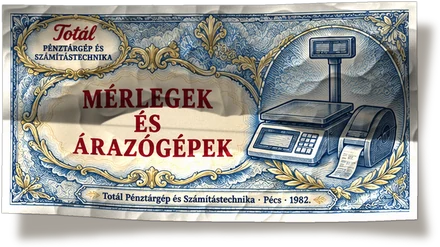
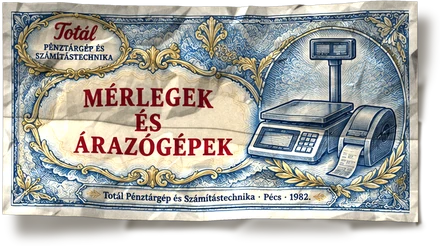
Bankjegyek 2. kör: fizikai alapú gyűrés – összefüggő, élekben megtörő gyűrődés három léptékben, hullámzó éles hajtásvonalak csúcsfénnyel, önárnyék a felemelkedő részekről, üregárnyék, kikopott festék a hajtásokon, kosz és sárgult papírszél, magasság szerint puhuló vetett árnyék; háromszoros belső fe
Claude-Session: https://claude.ai/code/session_019XGnSoGg3wGrQBhaaRxqBs

diff --git a/index.html b/index.html
@@ -1073,7 +1073,7 @@ html[dir=rtl] .top .hnyelv{display:none}
 <section class="sec vizjel-reg jobb" id="szolgaltatasok">
   <div class="wrap">
     <div class="shead rv"><div><span class="eye">Amivel foglalkozunk</span><h2 class="sh2">Minden egy helyen, <em>Pécsen</em></h2><p class="slead">A pénztárgéptől a számítógépig segítünk a megfelelő eszköz kiválasztásában, beállításában és használatának elsajátításában. Később is számíthat ránk a javításban – üzlete technikai hátterét egy helyen intézheti.</p></div><a class="hb navy" href="webaruhaz/#termekek"><svg class="ic" viewBox="0 0 24 24"><circle cx="9" cy="20" r="1.4"/><circle cx="18" cy="20" r="1.4"/><path d="M2.5 3.5h3l2.6 11.2a1.5 1.5 0 0 0 1.5 1.2h8.3a1.5 1.5 0 0 0 1.4-1.1l1.7-7.3H6.3"/></svg>Webáruház</a><img class="szdisz" src="assets/illusztraciok/web/szekesegyhaz-szepia.svg?v=1101" alt="" aria-hidden="true" width="1139" height="995" loading="lazy" decoding="async"></div>
-    <div class="areas bjr"><a class="area bjk rv" href="webaruhaz/#kat-penztargep"><span class="bj-mezo"><img class="bjg" style="--w:93%;--rot:-2.1deg" src="assets/bankjegyek/gyurt/penztargep-440.webp" srcset="assets/bankjegyek/gyurt/penztargep-440.webp 440w, assets/bankjegyek/gyurt/penztargep-820.webp 767w" sizes="(max-width:700px) 90vw, 380px" alt="" width="767" height="445" loading="lazy" decoding="async"></span><div class="bj-tart"><h3>Pénztárgépek és POS-rendszerek</h3><p>Online pénztárgépek és érintőképernyős kasszarendszerek különféle üzleti feladatokra. Segítünk a megfelelő készülék kiválasztásában, üzembe helyezésében és használatának elsajátításában.</p><ul><li><svg class="ic" viewBox="0 0 24 24"><path d="M4 12.5l5 5L20 6.5"/></svg><span>Sam4s, Micra és Montel készülékek</span></li><li><svg class="ic" viewBox="0 0 24 24"><path d="M4 12.5l5 5L20 6.5"/></svg><span>Üzembe helyezés és NAV-bejelentés</span></li><li><svg class="ic" viewBox="0 0 24 24"><path d="M4 12.5l5 5L20 6.5"/></svg><span>Kasszafiók, vonalkódolvasó, blokknyomtató</span></li></ul><span class="more">Pénztárgépek <svg class="ic" viewBox="0 0 24 24"><path d="m9 5 7 7-7 7"/></svg></span></div></a><a class="area bjk rv" href="webaruhaz/#kat-irodatechnika"><span class="bj-mezo"><img class="bjg" style="--w:86%;--rot:1.5deg" src="assets/bankjegyek/gyurt/szamitastechnika-440.webp" srcset="assets/bankjegyek/gyurt/szamitastechnika-440.webp 440w, assets/bankjegyek/gyurt/szamitastechnika-820.webp 772w" sizes="(max-width:700px) 90vw, 380px" alt="" width="772" height="432" loading="lazy" decoding="async"></span><div class="bj-tart"><h3>Számítástechnika és irodatechnika</h3><p>Számítógépek, laptopok, nyomtatók és hálózati megoldások üzleti és otthoni használatra. Igény szerint segítünk a beszerzésben, az összeállításban, a telepítésben és a javításban.</p><ul><li><svg class="ic" viewBox="0 0 24 24"><path d="M4 12.5l5 5L20 6.5"/></svg><span>Gépek összeállítása és telepítése</span></li><li><svg class="ic" viewBox="0 0 24 24"><path d="M4 12.5l5 5L20 6.5"/></svg><span>Számítógép- és laptopjavítás</span></li><li><svg class="ic" viewBox="0 0 24 24"><path d="M4 12.5l5 5L20 6.5"/></svg><span>Hálózat és internet kiépítése</span></li></ul><span class="more">Irodatechnika <svg class="ic" viewBox="0 0 24 24"><path d="m9 5 7 7-7 7"/></svg></span></div></a><a class="area bjk rv" href="webaruhaz/#kat-merleg"><span class="bj-mezo"><img class="bjg" style="--w:96%;--rot:-.7deg" src="assets/bankjegyek/gyurt/merleg-arazo-440.webp" srcset="assets/bankjegyek/gyurt/merleg-arazo-440.webp 440w, assets/bankjegyek/gyurt/merleg-arazo-820.webp 757w" sizes="(max-width:700px) 90vw, 380px" alt="" width="757" height="425" loading="lazy" decoding="async"></span><div class="bj-tart"><h3>Mérlegek és árazógépek</h3><p>Bolti mérlegek, árazógépek és a hozzájuk tartozó kellékek. A felhasználási cél és a szükséges kapacitás alapján segítünk kiválasztani az Ön munkájához megfelelő megoldást.</p><ul><li><svg class="ic" viewBox="0 0 24 24"><path d="M4 12.5l5 5L20 6.5"/></svg><span>Hitelesített bolti mérlegek</span></li><li><svg class="ic" viewBox="0 0 24 24"><path d="M4 12.5l5 5L20 6.5"/></svg><span>Árazógépek, címkék, festékhengerek</span></li><li><svg class="ic" viewBox="0 0 24 24"><path d="M4 12.5l5 5L20 6.5"/></svg><span>Tanácsadás a választáshoz</span></li></ul><span class="more">Mérlegek <svg class="ic" viewBox="0 0 24 24"><path d="m9 5 7 7-7 7"/></svg></span></div></a><a class="area bjk rv" href="webaruhaz/#kat-kellek"><span class="bj-mezo"><img class="bjg" style="--w:88%;--rot:2.3deg" src="assets/bankjegyek/gyurt/kellekanyagok-440.webp" srcset="assets/bankjegyek/gyurt/kellekanyagok-440.webp 440w, assets/bankjegyek/gyurt/kellekanyagok-820.webp 747w" sizes="(max-width:700px) 90vw, 380px" alt="" width="747" height="411" loading="lazy" decoding="async"></span><div class="bj-tart"><h3>Kellékanyagok</h3><p>Hőpapírtekercsek, árazócímkék, festékhengerek és belövőszálak. A megfelelő méret kiválasztásához hozza magával készüléke pontos típusát, vagy hívjon minket.</p><ul><li><svg class="ic" viewBox="0 0 24 24"><path d="M4 12.5l5 5L20 6.5"/></svg><span>Hőpapírtekercsek minden géphez</span></li><li><svg class="ic" viewBox="0 0 24 24"><path d="M4 12.5l5 5L20 6.5"/></svg><span>Árazócímkék, festékhengerek</span></li><li><svg class="ic" viewBox="0 0 24 24"><path d="M4 12.5l5 5L20 6.5"/></svg><span>Gyors beszerzés, átvétel üzletünkben</span></li></ul><span class="more">Kellékanyagok <svg class="ic" viewBox="0 0 24 24"><path d="m9 5 7 7-7 7"/></svg></span></div></a><a class="area bjk rv" href="webaruhaz/#szerviz"><span class="bj-mezo"><img class="bjg" style="--w:91%;--rot:-1.4deg" src="assets/bankjegyek/gyurt/szerviz-440.webp" srcset="assets/bankjegyek/gyurt/szerviz-440.webp 440w, assets/bankjegyek/gyurt/szerviz-820.webp 758w" sizes="(max-width:700px) 90vw, 380px" alt="" width="758" height="429" loading="lazy" decoding="async"></span><div class="bj-tart"><h3>Szerviz és karbantartás</h3><p>Pénztárgépek javítását, felülvizsgálatát és adómemória-kiolvasását, valamint számítógépek és hálózatok javítását is vállaljuk. Pénztárgép esetén kérjük, adja meg a készülék AP-számát is.</p><ul><li><svg class="ic" viewBox="0 0 24 24"><path d="M4 12.5l5 5L20 6.5"/></svg><span>Javítás és éves felülvizsgálat</span></li><li><svg class="ic" viewBox="0 0 24 24"><path d="M4 12.5l5 5L20 6.5"/></svg><span>Adómemória- és AEE-kiolvasás</span></li><li><svg class="ic" viewBox="0 0 24 24"><path d="M4 12.5l5 5L20 6.5"/></svg><span>Gyors hibaelhárítás Pécsen</span></li></ul><span class="more">Szervizbejelentés <svg class="ic" viewBox="0 0 24 24"><path d="m9 5 7 7-7 7"/></svg></span></div></a><a class="area bjk rv" href="webaruhaz/#e-penztargep"><span class="bj-mezo"><img class="bjg" style="--w:95%;--rot:1deg" src="assets/bankjegyek/gyurt/e-penztargep-440.webp" srcset="assets/bankjegyek/gyurt/e-penztargep-440.webp 440w, assets/bankjegyek/gyurt/e-penztargep-820.webp 756w" sizes="(max-width:700px) 90vw, 380px" alt="" width="756" height="418" loading="lazy" decoding="async"></span><div class="bj-tart"><h3>E-pénztárgépes tájékoztatás</h3><p>Segítünk áttekinteni az e-pénztárgépekkel kapcsolatos lehetőségeket, és felmérni, melyik megoldás illeszkedhet leginkább vállalkozása működéséhez.</p><ul><li><svg class="ic" viewBox="0 0 24 24"><path d="M4 12.5l5 5L20 6.5"/></svg><span>Segítünk felmérni, melyik megoldásra van szüksége</span></li><li><svg class="ic" viewBox="0 0 24 24"><path d="M4 12.5l5 5L20 6.5"/></svg><span>Hardveralapú e-pénztárgép</span></li><li><svg class="ic" viewBox="0 0 24 24"><path d="M4 12.5l5 5L20 6.5"/></svg><span>Teljes körű ügyintézés a NAV felé</span></li></ul><span class="more">Tanácsadás az átálláshoz <svg class="ic" viewBox="0 0 24 24"><path d="m9 5 7 7-7 7"/></svg></span></div></a></div>
+    <div class="areas bjr"><a class="area bjk rv" href="webaruhaz/#kat-penztargep"><span class="bj-mezo"><img class="bjg" style="--w:93%;--rot:-2.1deg" src="assets/bankjegyek/gyurt/penztargep-440.webp?v=2" srcset="assets/bankjegyek/gyurt/penztargep-440.webp?v=2 440w, assets/bankjegyek/gyurt/penztargep-820.webp?v=2 820w" sizes="(max-width:700px) 90vw, 380px" alt="" width="820" height="468" loading="lazy" decoding="async"></span><div class="bj-tart"><h3>Pénztárgépek és POS-rendszerek</h3><p>Online pénztárgépek és érintőképernyős kasszarendszerek különféle üzleti feladatokra. Segítünk a megfelelő készülék kiválasztásában, üzembe helyezésében és használatának elsajátításában.</p><ul><li><svg class="ic" viewBox="0 0 24 24"><path d="M4 12.5l5 5L20 6.5"/></svg><span>Sam4s, Micra és Montel készülékek</span></li><li><svg class="ic" viewBox="0 0 24 24"><path d="M4 12.5l5 5L20 6.5"/></svg><span>Üzembe helyezés és NAV-bejelentés</span></li><li><svg class="ic" viewBox="0 0 24 24"><path d="M4 12.5l5 5L20 6.5"/></svg><span>Kasszafiók, vonalkódolvasó, blokknyomtató</span></li></ul><span class="more">Pénztárgépek <svg class="ic" viewBox="0 0 24 24"><path d="m9 5 7 7-7 7"/></svg></span></div></a><a class="area bjk rv" href="webaruhaz/#kat-irodatechnika"><span class="bj-mezo"><img class="bjg" style="--w:86%;--rot:1.5deg" src="assets/bankjegyek/gyurt/szamitastechnika-440.webp?v=2" srcset="assets/bankjegyek/gyurt/szamitastechnika-440.webp?v=2 440w, assets/bankjegyek/gyurt/szamitastechnika-820.webp?v=2 820w" sizes="(max-width:700px) 90vw, 380px" alt="" width="820" height="456" loading="lazy" decoding="async"></span><div class="bj-tart"><h3>Számítástechnika és irodatechnika</h3><p>Számítógépek, laptopok, nyomtatók és hálózati megoldások üzleti és otthoni használatra. Igény szerint segítünk a beszerzésben, az összeállításban, a telepítésben és a javításban.</p><ul><li><svg class="ic" viewBox="0 0 24 24"><path d="M4 12.5l5 5L20 6.5"/></svg><span>Gépek összeállítása és telepítése</span></li><li><svg class="ic" viewBox="0 0 24 24"><path d="M4 12.5l5 5L20 6.5"/></svg><span>Számítógép- és laptopjavítás</span></li><li><svg class="ic" viewBox="0 0 24 24"><path d="M4 12.5l5 5L20 6.5"/></svg><span>Hálózat és internet kiépítése</span></li></ul><span class="more">Irodatechnika <svg class="ic" viewBox="0 0 24 24"><path d="m9 5 7 7-7 7"/></svg></span></div></a><a class="area bjk rv" href="webaruhaz/#kat-merleg"><span class="bj-mezo"><img class="bjg" style="--w:96%;--rot:-.7deg" src="assets/bankjegyek/gyurt/merleg-arazo-440.webp?v=2" srcset="assets/bankjegyek/gyurt/merleg-arazo-440.webp?v=2 440w, assets/bankjegyek/gyurt/merleg-arazo-820.webp?v=2 820w" sizes="(max-width:700px) 90vw, 380px" alt="" width="820" height="459" loading="lazy" decoding="async"></span><div class="bj-tart"><h3>Mérlegek és árazógépek</h3><p>Bolti mérlegek, árazógépek és a hozzájuk tartozó kellékek. A felhasználási cél és a szükséges kapacitás alapján segítünk kiválasztani az Ön munkájához megfelelő megoldást.</p><ul><li><svg class="ic" viewBox="0 0 24 24"><path d="M4 12.5l5 5L20 6.5"/></svg><span>Hitelesített bolti mérlegek</span></li><li><svg class="ic" viewBox="0 0 24 24"><path d="M4 12.5l5 5L20 6.5"/></svg><span>Árazógépek, címkék, festékhengerek</span></li><li><svg class="ic" viewBox="0 0 24 24"><path d="M4 12.5l5 5L20 6.5"/></svg><span>Tanácsadás a választáshoz</span></li></ul><span class="more">Mérlegek <svg class="ic" viewBox="0 0 24 24"><path d="m9 5 7 7-7 7"/></svg></span></div></a><a class="area bjk rv" href="webaruhaz/#kat-kellek"><span class="bj-mezo"><img class="bjg" style="--w:88%;--rot:2.3deg" src="assets/bankjegyek/gyurt/kellekanyagok-440.webp?v=2" srcset="assets/bankjegyek/gyurt/kellekanyagok-440.webp?v=2 440w, assets/bankjegyek/gyurt/kellekanyagok-820.webp?v=2 820w" sizes="(max-width:700px) 90vw, 380px" alt="" width="820" height="450" loading="lazy" decoding="async"></span><div class="bj-tart"><h3>Kellékanyagok</h3><p>Hőpapírtekercsek, árazócímkék, festékhengerek és belövőszálak. A megfelelő méret kiválasztásához hozza magával készüléke pontos típusát, vagy hívjon minket.</p><ul><li><svg class="ic" viewBox="0 0 24 24"><path d="M4 12.5l5 5L20 6.5"/></svg><span>Hőpapírtekercsek minden géphez</span></li><li><svg class="ic" viewBox="0 0 24 24"><path d="M4 12.5l5 5L20 6.5"/></svg><span>Árazócímkék, festékhengerek</span></li><li><svg class="ic" viewBox="0 0 24 24"><path d="M4 12.5l5 5L20 6.5"/></svg><span>Gyors beszerzés, átvétel üzletünkben</span></li></ul><span class="more">Kellékanyagok <svg class="ic" viewBox="0 0 24 24"><path d="m9 5 7 7-7 7"/></svg></span></div></a><a class="area bjk rv" href="webaruhaz/#szerviz"><span class="bj-mezo"><img class="bjg" style="--w:91%;--rot:-1.4deg" src="assets/bankjegyek/gyurt/szerviz-440.webp?v=2" srcset="assets/bankjegyek/gyurt/szerviz-440.webp?v=2 440w, assets/bankjegyek/gyurt/szerviz-820.webp?v=2 820w" sizes="(max-width:700px) 90vw, 380px" alt="" width="820" height="458" loading="lazy" decoding="async"></span><div class="bj-tart"><h3>Szerviz és karbantartás</h3><p>Pénztárgépek javítását, felülvizsgálatát és adómemória-kiolvasását, valamint számítógépek és hálózatok javítását is vállaljuk. Pénztárgép esetén kérjük, adja meg a készülék AP-számát is.</p><ul><li><svg class="ic" viewBox="0 0 24 24"><path d="M4 12.5l5 5L20 6.5"/></svg><span>Javítás és éves felülvizsgálat</span></li><li><svg class="ic" viewBox="0 0 24 24"><path d="M4 12.5l5 5L20 6.5"/></svg><span>Adómemória- és AEE-kiolvasás</span></li><li><svg class="ic" viewBox="0 0 24 24"><path d="M4 12.5l5 5L20 6.5"/></svg><span>Gyors hibaelhárítás Pécsen</span></li></ul><span class="more">Szervizbejelentés <svg class="ic" viewBox="0 0 24 24"><path d="m9 5 7 7-7 7"/></svg></span></div></a><a class="area bjk rv" href="webaruhaz/#e-penztargep"><span class="bj-mezo"><img class="bjg" style="--w:95%;--rot:1deg" src="assets/bankjegyek/gyurt/e-penztargep-440.webp?v=2" srcset="assets/bankjegyek/gyurt/e-penztargep-440.webp?v=2 440w, assets/bankjegyek/gyurt/e-penztargep-820.webp?v=2 820w" sizes="(max-width:700px) 90vw, 380px" alt="" width="820" height="458" loading="lazy" decoding="async"></span><div class="bj-tart"><h3>E-pénztárgépes tájékoztatás</h3><p>Segítünk áttekinteni az e-pénztárgépekkel kapcsolatos lehetőségeket, és felmérni, melyik megoldás illeszkedhet leginkább vállalkozása működéséhez.</p><ul><li><svg class="ic" viewBox="0 0 24 24"><path d="M4 12.5l5 5L20 6.5"/></svg><span>Segítünk felmérni, melyik megoldásra van szüksége</span></li><li><svg class="ic" viewBox="0 0 24 24"><path d="M4 12.5l5 5L20 6.5"/></svg><span>Hardveralapú e-pénztárgép</span></li><li><svg class="ic" viewBox="0 0 24 24"><path d="M4 12.5l5 5L20 6.5"/></svg><span>Teljes körű ügyintézés a NAV felé</span></li></ul><span class="more">Tanácsadás az átálláshoz <svg class="ic" viewBox="0 0 24 24"><path d="m9 5 7 7-7 7"/></svg></span></div></a></div>
   </div>
 </section>
 <div class="osztas" aria-hidden="true"><span></span></div>

diff --git a/eszkozok/bankjegy-gyures.py b/eszkozok/bankjegy-gyures.py
@@ -1,129 +1,216 @@
-"""Bankjegyek egyedi, valósághű meggyűrése: domborzat (hajtások, gyűrődések, sarokpöndörödés),
-fény-árnyék, enyhe torzulás és vetett árnyék. Kimenet: átlátszó hátterű WebP."""
-import numpy as np, sys, os
+"""Bankjegyek valósághű meggyűrése (2. változat).
+
+Fizikai alapú, előre kiszámolt kép: domborzat (éles hajtások, sík lapocskákra törő gyűrődés,
+pöndörödő sarok), irányfény + szórt fény, önárnyék (a felemelkedő részek árnyéka a papíron),
+üregárnyék, éles hajtásvonal-csúcsfény, kikopott festék a hajtásokon, kosz a hajtások és élek
+mentén, sárgult papírszél, magasság szerint elmosódó vetett árnyék az asztalon.
+Kimenet: átlátszó hátterű WebP (440 és 820 px széles).
+
+Használat: python3 bankjegy-gyures.py <eredeti png-k mappája> <kimeneti mappa> [név ...]
+"""
+import os, sys
+import numpy as np
 from PIL import Image
-from scipy.ndimage import gaussian_filter, map_coordinates, laplace
+from scipy.ndimage import gaussian_filter, map_coordinates
+from scipy.spatial import cKDTree
 
-SRC = sys.argv[1]; OUT = sys.argv[2]
-NAMES = {'01': 'penztargep', '02': 'szamitastechnika', '03': 'merleg-arazo', '04': 'kellekanyagok', '05': 'szerviz', '06': 'e-penztargep'}
-SC = 2  # belső számolás kétszeres felbontáson a szép élekért
+SC = 3                        # belső felbontás szorzója
+NAMES = {'01': 'penztargep', '02': 'szamitastechnika', '03': 'merleg-arazo',
+         '04': 'kellekanyagok', '05': 'szerviz', '06': 'e-penztargep'}
 
-def smoothstep(e0, e1, x):
-    t = np.clip((x - e0) / (e1 - e0), 0, 1); return t * t * (3 - 2 * t)
 
-def papir(img):
-    """Bankjegy keskeny nyomatlan papírszéllel és papírszemcsével."""
-    w, h = img.size; m = round(w * 0.021)
-    rng = np.random.default_rng(7)
-    base = np.ones((h + 2 * m, w + 2 * m, 3)) * np.array([246, 241, 228]) / 255
-    base *= (1 + gaussian_filter(rng.standard_normal(base.shape[:2]), 0.8)[..., None] * 0.025)
-    a = np.asarray(img.convert('RGB')).astype(float) / 255
-    base[m:m + h, m:m + w] = a
-    grain = gaussian_filter(rng.standard_normal(base.shape[:2]), 0.6) * 0.022 + gaussian_filter(rng.standard_normal(base.shape[:2]), 3) * 0.03
-    return np.clip(base * (1 + grain[..., None]), 0, 1)
+def ss(e0, e1, x):
+    t = np.clip((x - e0) / (e1 - e0), 0, 1)
+    return t * t * (3 - 2 * t)
 
-def ridged(rng, shape, sigmas, amps):
-    h = np.zeros(shape)
-    for s, a in zip(sigmas, amps):
-        n = gaussian_filter(rng.standard_normal(shape), s); n /= n.std() + 1e-9
-        h += a * (1 - np.abs(np.tanh(n * 1.3)))  # éles gerincek, mint a gyűrt papíron
-    return h - h.mean()
 
-def hajtas(X, Y, x0, y0, ang, mely, hossz=None, irany=1, lagy=1.5):
-    """Egyenes hajtásvonal: a vonal két oldalán a papír megdől (V vagy fordított V alak)."""
+def zaj(rng, shape, s):
+    n = gaussian_filter(rng.standard_normal(shape), s)
+    return n / (n.std() + 1e-9)
+
+
+# ---------------------------------------------------------------- papír
+def papir(img, rng):
+    """A nyomat keskeny, kissé sárgult, nyomatlan papírszéllel, papírszemcsével."""
+    w, h = img.size
+    m = round(w * 0.022)
+    W, H = w + 2 * m, h + 2 * m
+    col = np.ones((H, W, 3)) * np.array([243, 237, 222]) / 255
+    yy, xx = np.mgrid[0:H, 0:W]
+    edge = np.minimum.reduce([xx, yy, W - 1 - xx, H - 1 - yy]).astype(float)
+    col *= 1 - (0.07 * np.exp(-edge / (m * 0.5)))[..., None] * np.array([0.6, 0.85, 1.25])  # sárgult szél
+    col[m:m + h, m:m + w] = np.asarray(img.convert('RGB')).astype(float) / 255
+    return col
+
+
+# ---------------------------------------------------------------- domborzat
+def hajtas(X, Y, f, w, h, rng):
+    x0, y0, ang, mely = f[:4]
+    ex = f[4] if len(f) > 4 else {}
     c, s = np.cos(np.radians(ang)), np.sin(np.radians(ang))
-    d = (X - x0) * (-s) + (Y - y0) * c          # távolság a vonaltól
-    t = (X - x0) * c + (Y - y0) * s             # hely a vonal mentén
-    v = np.sqrt(d * d + lagy * lagy) * irany * mely
-    if hossz:  # részleges hajtás: a vonal végein elhal
-        v *= 1 - smoothstep(hossz[0], hossz[1], np.abs(t))
-    return v
+    t = (X - x0 * w) * c + (Y - y0 * h) * s
+    d = (X - x0 * w) * (-s) + (Y - y0 * h) * c
+    d = d + zaj(rng, X.shape, w * 0.05) * w * 0.004          # a hajtásvonal sosem tökéletesen egyenes
+    lagy = ex.get('lagy', 0.6) * SC
+    v = np.sqrt(d * d + lagy * lagy) * ex.get('irany', 1) * mely
+    v *= 1 + zaj(rng, X.shape, w * 0.08) * 0.12              # a két oldal sem egyenletes
+    if 'hossz' in ex:
+        a, b = ex['hossz']
+        v *= 1 - ss(a * w, b * w, np.abs(t))
+    return v, d
 
-def sarok(X, Y, cx, cy, r, mag):
-    d = np.hypot(X - cx, Y - cy); return mag * smoothstep(r, 0, d) ** 1.6
 
-def gyur(paper, cfg, seed):
+def lapocskak(rng, X, Y, n, amp, sim=0.5):
+    """Gyűrt papír: összefüggő felület, amely éles élek mentén sík lapocskákra törik
+    (véletlen pontok háromszögelése, lineáris kitöltés)."""
+    from scipy.interpolate import LinearNDInterpolator
+    x0, x1, y0, y1 = X.min(), X.max(), Y.min(), Y.max()
+    pts = np.c_[rng.uniform(x0, x1, n), rng.uniform(y0, y1, n)]
+    k = 12
+    rim = np.r_[np.c_[np.linspace(x0, x1, k), np.full(k, y0)], np.c_[np.linspace(x0, x1, k), np.full(k, y1)],
+                np.c_[np.full(k, x0), np.linspace(y0, y1, k)], np.c_[np.full(k, x1), np.linspace(y0, y1, k)]]
+    P = np.r_[pts, rim]
+    z = rng.normal(0, amp, len(P))
+    f = LinearNDInterpolator(P, z, fill_value=0)
+    st = 2                                   # ritkább rácson számol, majd simán felnagyít
+    hs = f(X[::st, ::st], Y[::st, ::st])
+    from scipy.ndimage import zoom
+    hf = zoom(hs, (X.shape[0] / hs.shape[0], X.shape[1] / hs.shape[1]), order=1)[:X.shape[0], :X.shape[1]]
+    return gaussian_filter(hf, sim * SC)
+
+
+def domborzat(cfg, X, Y, w, h, rng):
+    Hf = zaj(rng, X.shape, w * 0.14) * cfg.get('hullam', 5) * SC
+    Hfold = np.zeros_like(X)
+    for f in cfg.get('hajtasok', []):
+        v, _ = hajtas(X, Y, f, w, h, rng)
+        Hfold += v
+    Hf += Hfold
+    g = cfg.get('gyurt', 0)
+    if g:
+        Hf += lapocskak(rng, X, Y, int(70 + g * 70), 1.7 * g * SC, 0.6)
+        Hf += lapocskak(rng, X, Y, int(260 + g * 200), 0.55 * g * SC, 0.45)
+        Hf += lapocskak(rng, X, Y, int(900 + g * 400), 0.16 * g * SC, 0.35)
+    for cx, cy, r, mag in cfg.get('sarkok', []):
+        d = np.hypot(X - cx * w, Y - cy * h)
+        Hf += mag * SC * ss(r * w, 0, d) ** 1.8
+    inside = (X >= 0) & (X < w) & (Y >= 0) & (Y < h)
+    Hf -= np.percentile(Hf[inside], 6)
+    return np.maximum(Hf, 0), Hfold
+
+
+# ---------------------------------------------------------------- render
+def render(paper, cfg, seed):
     rng = np.random.default_rng(seed)
     H0, W0 = paper.shape[:2]
-    img = np.stack([np.asarray(Image.fromarray((paper[..., i] * 255).astype(np.uint8)).resize((W0 * SC, H0 * SC), Image.LANCZOS)) for i in range(3)], -1).astype(float) / 255
-    h, w = img.shape[:2]; pad = int(w * 0.07)
+    img = np.stack([np.asarray(Image.fromarray((paper[..., i] * 255).astype(np.uint8)).resize((W0 * SC, H0 * SC), Image.LANCZOS))
+                    for i in range(3)], -1).astype(float) / 255
+    h, w = img.shape[:2]
+    pad = int(w * 0.08)
     Hc, Wc = h + 2 * pad, w + 2 * pad
-    Y, X = np.mgrid[0:Hc, 0:Wc].astype(float); Xp, Yp = X - pad, Y - pad   # papír-koordináták
-    u, v = Xp / w, Yp / h
-    # --- domborzat ---
-    Hf = np.zeros((Hc, Wc))
-    nagy = gaussian_filter(rng.standard_normal((Hc, Wc)), w * 0.12); nagy /= nagy.std()
-    Hf += nagy * cfg.get('hullam', 6) * SC
-    Hfold = np.zeros((Hc, Wc))
-    for f in cfg.get('hajtasok', []):
-        x0, y0, ang, mely = f[:4]; extra = f[4] if len(f) > 4 else {}
-        hs = extra.get('hossz'); hs = (hs[0] * w, hs[1] * w) if hs else None
-        Hfold += hajtas(Xp, Yp, x0 * w, y0 * h, ang, mely, hs, extra.get('irany', 1), extra.get('lagy', 1.4) * SC)
-    Hf += Hfold
-    if cfg.get('gyurt'):
-        g = cfg['gyurt']
-        Hf += ridged(rng, (Hc, Wc), [w * 0.018, w * 0.035, w * 0.07], [g * 0.35, g * 0.7, g]) * SC
-    for cx, cy, r, mag in cfg.get('sarkok', []):
-        Hf += sarok(Xp, Yp, cx * w, cy * h, r * w, mag * SC)
-    Hf -= np.percentile(Hf[pad:pad + h, pad:pad + w], 8)  # a legalsó pontok érintik az asztalt
-    Hf = np.maximum(Hf, 0)
-    # --- vetítés: a magasabb részek kissé feljebb és oldalra látszanak ---
-    py, px = cfg.get('nezo', (0.22, 0.05))
-    sy = Yp + Hf * py; sx = Xp + Hf * px
-    col = np.stack([map_coordinates(img[..., i], [sy, sx], order=1, mode='constant', cval=0) for i in range(3)], -1)
+    Y, X = np.mgrid[0:Hc, 0:Wc].astype(float)
+    Xp, Yp = X - pad, Y - pad
+    Hf, Hfold = domborzat(cfg, Xp, Yp, w, h, rng)
+
+    # nézőpont: a magasabb pontok kissé feljebb (és oldalra) látszanak
+    py, px = cfg.get('nezo', (0.24, 0.04))
+    sx, sy = Xp + Hf * px, Yp + Hf * py
+    col = np.stack([map_coordinates(img[..., i], [sy, sx], order=1, mode='constant') for i in range(3)], -1)
     inside = ((sx >= 0) & (sx <= w - 1) & (sy >= 0) & (sy <= h - 1)).astype(float)
-    alpha = gaussian_filter(inside, 0.7 * SC)
-    # --- fény: normálvektor a domborzatból, fény balról-felülről ---
-    gy, gx = np.gradient(gaussian_filter(Hf, 0.8 * SC))
-    k = 1.6
-    N = np.stack([-gx * k, -gy * k, np.ones_like(Hf)], -1); N /= np.linalg.norm(N, axis=-1, keepdims=True)
-    L = np.array([-0.45, -0.62, 0.65]); L /= np.linalg.norm(L)
-    lam = (N @ L) / L[2]
-    shade = 1 + (lam - 1) * 0.85
-    Rv = 2 * (N @ L)[..., None] * N - L; spec = np.clip(Rv[..., 2], 0, 1) ** 40 * 0.16
-    curv = laplace(gaussian_filter(Hf, 1.0 * SC))
-    ao = 1 - np.clip(curv, 0, None) * 0.9 / SC          # völgyekben enyhe sötétedés
-    hl = np.clip(-curv, 0, None) * 0.35 / SC            # gerinceken csúcsfény
-    cf = laplace(gaussian_filter(Hfold, 0.9 * SC))
-    crease = 1 - np.clip(cf, 0, None) * 5.0 / SC + 0 * cf
-    hl = hl + np.clip(-cf, 0, None) * 2.2 / SC
-    # a hajtás két oldala határozottan eltérő fényt kap
-    shade = shade * ao * np.clip(crease, 0.55, 1)
-    out = np.clip(col * shade[..., None] + spec[..., None] + hl[..., None], 0, 1)
-    # --- vetett árnyék: a magasabb részek messzebbre vetnek, puhábban ---
-    sh_dx, sh_dy = 0.006 * w, 0.018 * h
-    shx = X - sh_dx - Hf * 0.35; shy = Y - sh_dy - Hf * 0.55
-    sha = map_coordinates(alpha, [shy, shx], order=1, mode='constant', cval=0)
-    shadow = gaussian_filter(sha, 7 * SC) * 0.42 + gaussian_filter(alpha, 1.5 * SC) * 0.22
-    shadow = np.clip(shadow, 0, 0.6) * (1 - alpha)
-    shcol = np.array([45, 33, 14]) / 255
+    alpha = gaussian_filter(inside, 0.55 * SC)
+    Hs = map_coordinates(Hf, [sy + pad, sx + pad], order=1, mode='nearest')            # magasság a képernyő-pontban
+    Fs = map_coordinates(Hfold, [sy + pad, sx + pad], order=1, mode='nearest')
+
+    # normálvektor
+    gy, gx = np.gradient(gaussian_filter(Hs, 0.45 * SC))
+    N = np.dstack([-gx, -gy, np.ones_like(Hs)]); N /= np.linalg.norm(N, axis=-1, keepdims=True)
+    L = np.array([-0.5, -0.7, 0.55]); L /= np.linalg.norm(L)
+    ndl = np.clip(N @ L, 0, 1)
+    diffuse = 0.40 + 0.60 * ndl / L[2]                 # sík papír ≈ 1
+    # önárnyék: a fény felé haladva van-e magasabb pont (horizont-teszt)
+    dirx, diry = L[0] / np.hypot(L[0], L[1]), L[1] / np.hypot(L[0], L[1])
+    tanel = L[2] / np.hypot(L[0], L[1])
+    occl = np.zeros_like(Hs)
+    for st in np.geomspace(2 * SC, w * 0.25, 34):
+        hh = map_coordinates(Hs, [Y + diry * st, X + dirx * st], order=1, mode='nearest')
+        occl = np.maximum(occl, np.clip((hh - Hs - st * tanel) / (6 * SC), 0, 1))
+    selfsh = 1 - 0.30 * gaussian_filter(occl, 1.8 * SC)
+    # üregárnyék (szórt fény elzárása)
+    cav = np.clip(gaussian_filter(Hs, 6 * SC) - Hs, 0, None)
+    ao = 1 - np.clip(cav / (10 * SC), 0, 0.22)
+    # csillanás
+    R = 2 * (N @ L)[..., None] * N - L
+    spec = np.clip(R[..., 2], 0, 1) ** 28 * 0.10
+    # éles hajtásvonalak: gerincen csúcsfény, völgyben sötét vonal
+    ky = np.gradient(np.gradient(Fs, axis=0), axis=0); kx = np.gradient(np.gradient(Fs, axis=1), axis=1)
+    curv = gaussian_filter(kx + ky, 0.5 * SC)
+    q = np.percentile(np.abs(curv), 99.6) + 1e-9
+    cn = np.clip(curv / q, -1, 1)
+    ridge = np.clip(-cn, 0, None) ** 1.4; valley = np.clip(cn, 0, None) ** 1.4
+    line = gaussian_filter(np.abs(cn), 0.8 * SC)
+    # kopás a hajtásokon: a festék kikopik (világos, szaggatott vonal)
+    wear = np.clip(zaj(rng, Hs.shape, 1.2 * SC) * 0.6 + 0.4, 0, 1) * ridge
+    paper_c = np.array([0.93, 0.91, 0.85])
+    col = col * (1 - wear[..., None] * 0.55) + paper_c * wear[..., None] * 0.55
+    # kosz a hajtások és az élek mentén
+    edgeband = np.clip(1 - gaussian_filter(inside, 5 * SC) * 1.15, 0, 1) * inside
+    dirt = (gaussian_filter(line, 3 * SC) * 1.4 + edgeband * 0.8) * (0.6 + 0.4 * np.clip(zaj(rng, Hs.shape, 4 * SC), -1, 1))
+    col = col * (1 - np.clip(dirt, 0, 1)[..., None] * np.array([0.07, 0.085, 0.12]))
+    # papírszemcse (finom dombornyomás-hatás)
+    grain = zaj(rng, Hs.shape, 0.5 * SC) * 0.018 + zaj(rng, Hs.shape, 2.5 * SC) * 0.012
+    shade = diffuse * selfsh * ao * (1 - valley * 0.30) + grain
+    out = np.clip(col * shade[..., None] + spec[..., None] + ridge[..., None] * 0.16, 0, 1)
+
+    # vetett árnyék az asztalon: minden papírpontot a fénnyel ellentétes irányba vetítünk,
+    # a magasabb pontok távolabbra és puhábban vetnek árnyékot
+    sh = np.zeros_like(Hs)
+    hmax = max(Hs[inside > 0].max(), 1e-6)
+    off = 4 * SC + Hs * 0.6
+    ty, tx = Y - diry * off, X - dirx * off
+    groups = [(0, 0.15, 1.8), (0.15, 0.45, 4.5), (0.45, 1.01, 9.0)]
+    for lo, hi, sg in groups:
+        m = inside * ((Hs >= lo * hmax) & (Hs < hi * hmax))
+        buf = np.zeros_like(Hs)
+        iy, ix = np.floor(ty).astype(int), np.floor(tx).astype(int)
+        fy, fx = ty - iy, tx - ix
+        for dy, dx, wgt in ((0, 0, (1 - fy) * (1 - fx)), (0, 1, (1 - fy) * fx), (1, 0, fy * (1 - fx)), (1, 1, fy * fx)):
+            yy, xx = np.clip(iy + dy, 0, Hc - 1), np.clip(ix + dx, 0, Wc - 1)
+            np.add.at(buf, (yy.ravel(), xx.ravel()), (m * wgt).ravel())
+        sh += gaussian_filter(np.clip(buf, 0, 1), sg * SC) * (0.58 - 0.18 * lo)
+    contact = gaussian_filter(inside * (Hs < 3 * SC), 1.6 * SC) * 0.35
+    shadow = np.clip(np.maximum(sh, contact), 0, 0.7) * (1 - alpha)
+    shc = np.array([38, 28, 12]) / 255
+
     a_tot = alpha + shadow
-    rgb = (out * alpha[..., None] + shcol * shadow[..., None]) / np.maximum(a_tot, 1e-6)[..., None]
+    rgb = (out * alpha[..., None] + shc * shadow[..., None]) / np.maximum(a_tot, 1e-6)[..., None]
     rgba = np.dstack([rgb, np.clip(a_tot, 0, 1)])
-    # vágás a tartalomra
-    ys, xs = np.where(a_tot > 0.01); rgba = rgba[ys.min():ys.max() + 1, xs.min():xs.max() + 1]
-    im = Image.fromarray((rgba * 255).astype(np.uint8), 'RGBA')
-    return im.resize((im.width // SC, im.height // SC), Image.LANCZOS)
+    ys, xs = np.where(a_tot > 0.008)
+    rgba = rgba[ys.min():ys.max() + 1, xs.min():xs.max() + 1]
+    return Image.fromarray((rgba * 255).astype(np.uint8), 'RGBA')
+
 
 # mindegyik másképp: más helyen, más irányban, más mértékben
 CFG = {
- 'penztargep': dict(hullam=5, hajtasok=[(0.38, 0.5, 86, 0.2)], sarkok=[(1.0, 0.0, 0.22, 22)], gyurt=1.1, nezo=(0.24, 0.06)),
- 'szamitastechnika': dict(hullam=4, hajtasok=[(0.34, 0.5, 93, 0.16), (0.68, 0.5, 88, 0.13, {'irany': -1})], gyurt=0.8, nezo=(0.2, -0.04)),
- 'merleg-arazo': dict(hullam=7, hajtasok=[(0.5, 0.56, 3, 0.26), (0.63, 0.5, 80, 0.08, {'hossz': (0.1, 0.28)})], gyurt=2.0, nezo=(0.26, 0.03)),
- 'kellekanyagok': dict(hullam=6, gyurt=5.2, hajtasok=[(0.6, 0.5, 97, 0.07, {'lagy': 6})], sarkok=[(0.0, 1.0, 0.18, 14)]),
- 'szerviz': dict(hullam=6, hajtasok=[(0.8, 0.22, 132, 0.2, {'hossz': (0.22, 0.4)}), (0.45, 0.5, 89, 0.06, {'irany': -1, 'lagy': 4})], gyurt=1.5, sarkok=[(0.0, 0.0, 0.14, 10)]),
- 'e-penztargep': dict(hullam=4, hajtasok=[(0.57, 0.5, 91, 0.17), (0.5, 0.44, 1, 0.11, {'irany': -1})], gyurt=1.3, sarkok=[(1.0, 1.0, 0.15, 14)], nezo=(0.22, -0.03)),
+    'penztargep':       dict(hullam=5, hajtasok=[(0.38, 0.5, 86, 0.2)], sarkok=[(1.0, 0.0, 0.24, 26)], gyurt=1.0, nezo=(0.24, 0.05)),
+    'szamitastechnika': dict(hullam=4, hajtasok=[(0.34, 0.5, 93, 0.16), (0.68, 0.5, 88, 0.13, {'irany': -1})], gyurt=0.9, nezo=(0.21, -0.04)),
+    'merleg-arazo':     dict(hullam=6, hajtasok=[(0.5, 0.56, 3, 0.24), (0.63, 0.5, 80, 0.08, {'hossz': (0.1, 0.28)})], gyurt=1.8, nezo=(0.26, 0.03)),
+    'kellekanyagok':    dict(hullam=6, gyurt=2.6, hajtasok=[(0.6, 0.5, 97, 0.06, {'lagy': 3})], sarkok=[(0.0, 1.0, 0.2, 16)]),
+    'szerviz':          dict(hullam=6, hajtasok=[(0.8, 0.22, 132, 0.2, {'hossz': (0.22, 0.4)}), (0.45, 0.5, 89, 0.06, {'irany': -1, 'lagy': 2})], gyurt=1.4, sarkok=[(0.0, 0.0, 0.15, 12)]),
+    'e-penztargep':     dict(hullam=4, hajtasok=[(0.57, 0.5, 91, 0.17), (0.5, 0.44, 1, 0.11, {'irany': -1})], gyurt=1.3, sarkok=[(1.0, 1.0, 0.16, 16)], nezo=(0.22, -0.03)),
 }
-os.makedirs(OUT, exist_ok=True)
-only = sys.argv[3:] or None
-for f in sorted(os.listdir(SRC)):
-    if not f.endswith('.png'): continue
-    n = NAMES[f[:2]]
-    if only and n not in only: continue
-    im = Image.open(os.path.join(SRC, f)).convert('RGB').crop((6, 4, 692, 344))
-    r = gyur(papir(im), CFG[n], seed=sum(map(ord,n))*7)
-    r.save(os.path.join(OUT, f'{n}.png'))
-    for wdt in (440, 820):
-        if wdt > r.width: wdt = r.width
-        r.resize((wdt, round(r.height * wdt / r.width)), Image.LANCZOS).save(os.path.join(OUT, f'{n}-{wdt if wdt in (440,820) else 820}.webp'), quality=88, method=6)
-    print(n, r.size)
+
+if __name__ == '__main__':
+    src, out = sys.argv[1], sys.argv[2]
+    only = sys.argv[3:] or None
+    os.makedirs(out, exist_ok=True)
+    for f in sorted(os.listdir(src)):
+        if not f.endswith('.png') or f[:2] not in NAMES: continue
+        n = NAMES[f[:2]]
+        if only and n not in only: continue
+        seed = sum(map(ord, n)) * 7
+        im = Image.open(os.path.join(src, f)).convert('RGB').crop((6, 4, 692, 344))
+        r = render(papir(im, np.random.default_rng(seed)), CFG[n], seed)
+        r.save(os.path.join(out, f'{n}.png'))
+        for wd in (440, 820):
+            r.resize((wd, round(r.height * wd / r.width)), Image.LANCZOS).save(os.path.join(out, f'{n}-{wd}.webp'), quality=90, method=6)
+        print(n, r.size, flush=True)
